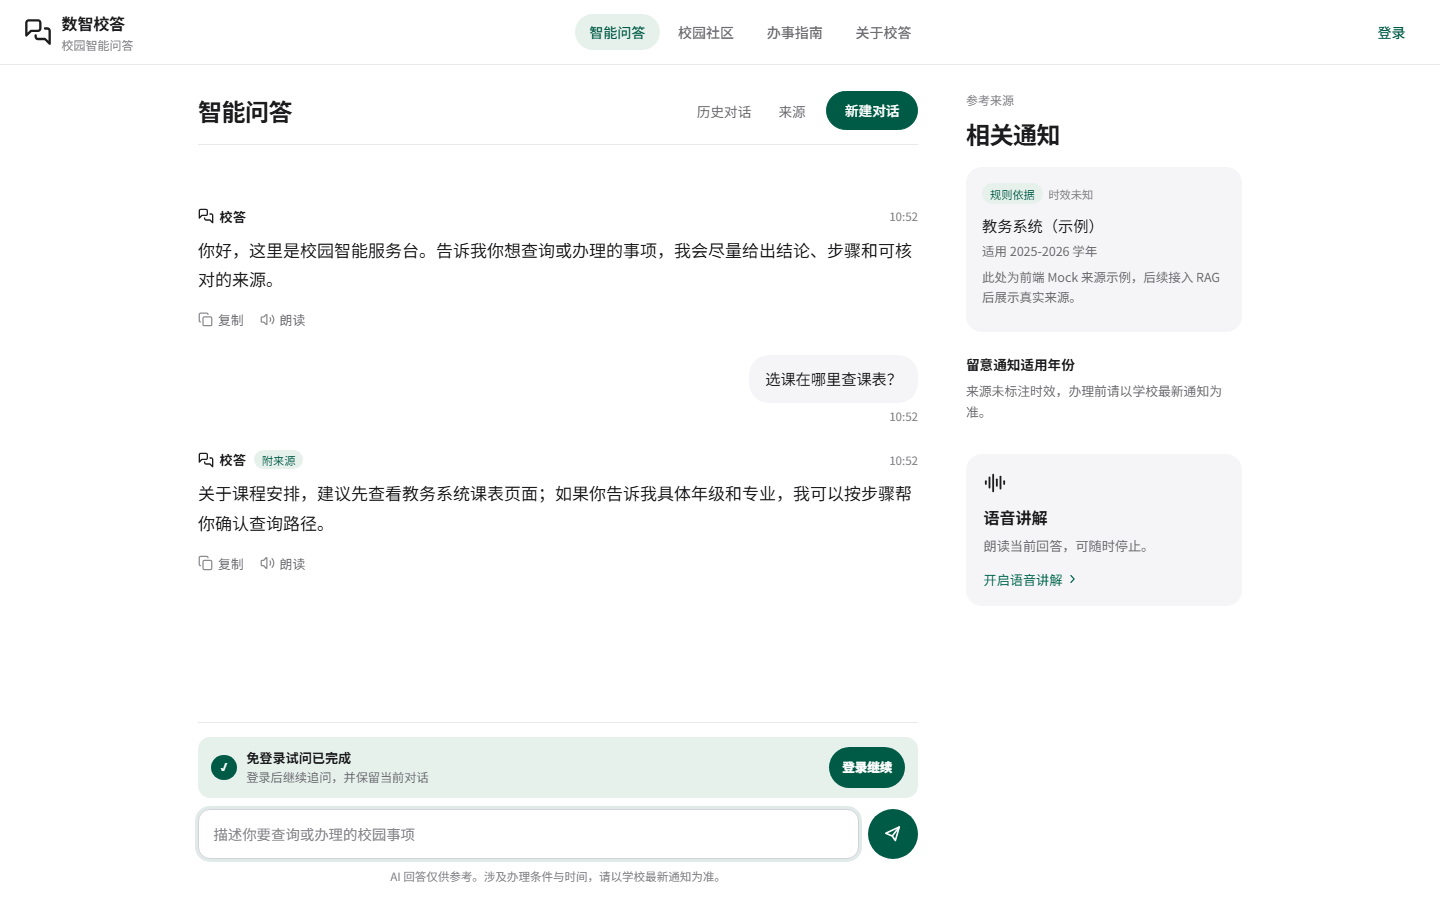
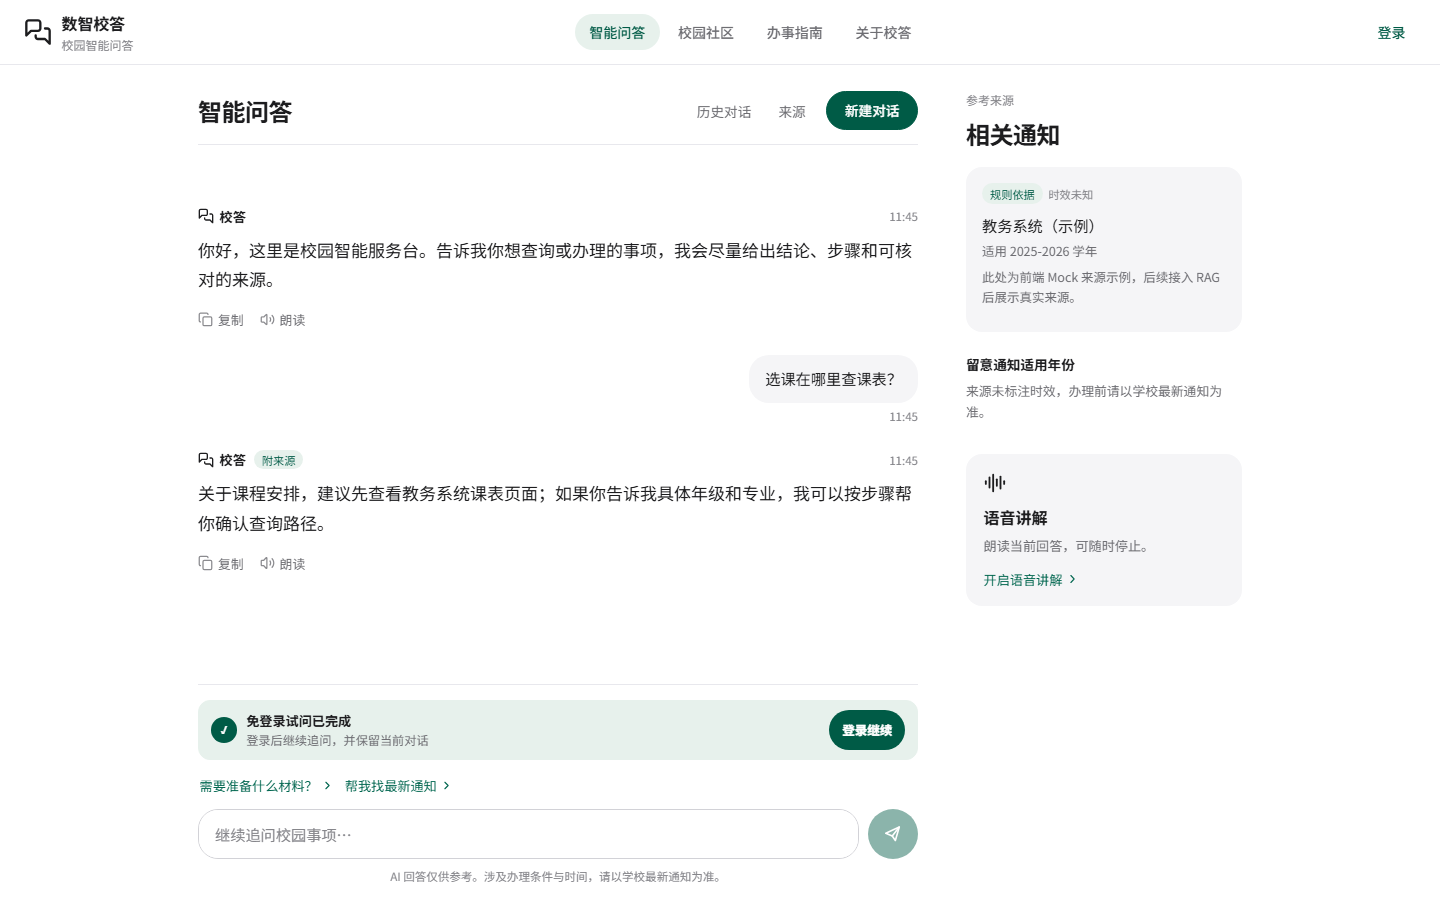
v2(2.4): harden the composer input and add follow-up suggestions
Switch the composer to an auto-growing textarea that ignores Enter during IME composition (A04), sends on Enter, keeps Shift+Enter for newlines, blocks blank and rapid duplicate submissions, and disables the send button when empty. Suggested follow-up questions are derived from the latest answer, only prefill the draft and focus the input - never auto-send. Drafts typed on /chat/new persist under a dedicated key and restore after refresh (conversation drafts already did). chat:layout now covers 10 checks including IME, Shift+Enter, blank submit and draft restore.

Changed region(s): [[0.125, 0.7778, 0.6562, 0.9644]]

diff --git a/src/views/AgentChat.vue b/src/views/AgentChat.vue
@@ -77,6 +77,19 @@
             </button>
           </div>
 
+          <div v-if="followUpSuggestions.length > 0" class="composer-suggestions">
+            <button
+              v-for="suggestion in followUpSuggestions"
+              :key="suggestion"
+              type="button"
+              class="composer-suggestion"
+              @click="applySuggestion(suggestion)"
+            >
+              {{ suggestion }}
+              <img src="/icons/chevron-right.svg" alt="" aria-hidden="true" />
+            </button>
+          </div>
+
           <InputBox
             ref="inputBoxRef"
             v-model="draftText"
@@ -279,6 +292,7 @@ const pendingDraftRestored = ref(false)
 const pendingDraftVisible = ref(false)
 const resumeAfterLoginRequested = ref(false)
 const GUEST_TRIAL_STORAGE_KEY = 'ai-campus-agent.guest-trial.used.v1'
+const NEW_CHAT_DRAFT_KEY = 'ai-campus-agent.chat-new-draft.v1'
 const guestTrialUsed = ref(false)
 
 const getLocalStorage = () => {
@@ -286,6 +300,23 @@ const getLocalStorage = () => {
     return typeof window !== 'undefined' ? window.localStorage : null
   } catch {
     return null
+  }
+}
+
+// /chat/new 还没有历史会话时，草稿先写这个键，刷新后仍能恢复。
+const readNewChatDraft = () => {
+  try {
+    return getLocalStorage()?.getItem(NEW_CHAT_DRAFT_KEY) || ''
+  } catch {
+    return ''
+  }
+}
+
+const clearNewChatDraft = () => {
+  try {
+    getLocalStorage()?.removeItem(NEW_CHAT_DRAFT_KEY)
+  } catch {
+    // 无痕或禁用存储时忽略。
   }
 }
 
@@ -407,6 +438,7 @@ const startNewConversation = () => {
   conversationNotice.value = ''
   historyOpen.value = false
   draftText.value = ''
+  clearNewChatDraft()
   store.resetSession()
   void router.push('/chat/new')
 }
@@ -479,6 +511,7 @@ const handleSend = async (text: string) => {
 
   ensureDraftForRun()
   const result = await store.sendMessage(text, runOptions())
+  if (result.ok) clearNewChatDraft()
   if (!authStore.loggedIn && result.ok) {
     persistGuestTrialUsed()
     syncRouteAfterSend()
@@ -520,6 +553,7 @@ const sendPendingDraft = async () => {
   consumeQuestionIntent()
   const result = await store.sendMessage(draft, runOptions())
   if (result.ok) {
+    clearNewChatDraft()
     clearPendingDraft()
     syncRouteAfterSend()
     return
@@ -569,9 +603,20 @@ watch(
 
 // 输入中的草稿写入当前会话，切走或刷新后仍能恢复。
 watch(draftText, (value) => {
-  if (!conversations.active) return
-  if (conversations.active.draft === value) return
-  conversations.setDraft(value)
+  if (conversations.active && conversations.active.draft !== value) {
+    conversations.setDraft(value)
+  }
+
+  // /chat/new 还没有历史会话时单独落一个草稿键，刷新后仍能恢复。
+  try {
+    const storage = getLocalStorage()
+    if (route.name === 'chat-new') {
+      if (value.trim()) storage?.setItem(NEW_CHAT_DRAFT_KEY, value)
+      else storage?.removeItem(NEW_CHAT_DRAFT_KEY)
+    }
+  } catch {
+    // 无痕或禁用存储时忽略。
+  }
 })
 
 // 校徽是否加载失败。
@@ -624,6 +669,27 @@ const activeAnswerText = computed(() => {
 })
 
 const narrating = ref(false)
+
+// 2.4 推荐问题：根据上一条回答里的关键词给两个可预填的问题，只预填不发送。
+const followUpSuggestions = computed(() => {
+  if (store.loading) return []
+  const lastAnswer = [...visibleMessages.value]
+    .reverse()
+    .find((message) => message.role === 'assistant' && message.content.trim())
+  if (!lastAnswer) return []
+
+  const content = lastAnswer.content
+  const suggestions: string[] = []
+  if (/材料|证明|证件|盖章/.test(content)) suggestions.push('需要准备什么材料？')
+  if (/通知|时间|截止|年份|有效期/.test(content)) suggestions.push('帮我找最新通知')
+  if (suggestions.length === 0) suggestions.push('需要准备什么材料？', '帮我找最新通知')
+  return suggestions.slice(0, 2)
+})
+
+const applySuggestion = (suggestion: string) => {
+  draftText.value = suggestion
+  void nextTick(() => inputBoxRef.value?.focus())
+}
 
 watch(
   () => store.narrationTick,
@@ -840,7 +906,8 @@ onMounted(() => {
     void restoreConversation(routeConversationId)
   } else if (route.name === 'chat-new') {
     activeConversationId.value = conversations.createDraft().conversationId
-    // 从首页“开始提问”进入时聚焦输入框；只聚焦，不自动发送，也不进历史。
+    // /chat/new 刷新后恢复未发送草稿，再聚焦输入框；只恢复，不自动发送。
+    if (!draftText.value) draftText.value = readNewChatDraft()
     void nextTick(() => inputBoxRef.value?.focus())
   }
 })
@@ -1541,6 +1608,35 @@ onMounted(() => {
   background: var(--white);
   font-size: 0.78rem;
   cursor: pointer;
+}
+
+.composer-suggestions {
+  display: flex;
+  flex-wrap: wrap;
+  gap: 0.5rem;
+  margin-bottom: 0.55rem;
+}
+
+.composer-suggestion {
+  display: inline-flex;
+  align-items: center;
+  gap: 0.2rem;
+  border: 0;
+  padding: 0.3rem 0.1rem;
+  color: var(--link);
+  background: transparent;
+  font-size: 0.82rem;
+  cursor: pointer;
+}
+
+.composer-suggestion:hover {
+  color: var(--brand-hover);
+  text-decoration: underline;
+}
+
+.composer-suggestion img {
+  width: 0.8rem;
+  height: 0.8rem;
 }
 
 .composer-note {

diff --git a/src/components/InputBox.vue b/src/components/InputBox.vue
@@ -4,14 +4,19 @@
     <el-input
       ref="inputRef"
       v-model="text"
+      class="composer-input"
+      type="textarea"
+      :autosize="{ minRows: 1, maxRows: 5 }"
       :disabled="loading"
-      placeholder="描述你要查询或办理的校园事项"
-      @keyup.enter="send"
+      placeholder="继续追问校园事项…"
+      @compositionstart="composing = true"
+      @compositionend="composing = false"
+      @keydown.enter="handleEnter"
     />
     <el-button
       class="send-btn"
       :loading="loading"
-      :disabled="loading"
+      :disabled="loading || !text.trim()"
       :aria-label="loading ? '正在发送' : '发送消息'"
       :title="loading ? '正在发送' : '发送消息'"
       @click="send"
@@ -40,8 +45,12 @@ const emit = defineEmits<{
 // 用本地 ref 保存输入框内容，发送成功后立即清空；同时与父组件的草稿双向同步。
 const text = ref(props.modelValue ?? '')
 const inputRef = ref<{ focus: () => void } | null>(null)
+// 中文输入法组合期按 Enter 只确认候选词，不发送消息。
+const composing = ref(false)
+// 防止 loading 状态尚未更新时的连续点击造成重复提交。
+let lastSent = { content: '', at: 0 }
 
-// 首页“开始提问”进入 /chat/new 时由父组件调用，只聚焦不发送。
+// 首页“开始提问”或推荐问题由父组件调用，只聚焦不发送。
 defineExpose({
   focus: () => inputRef.value?.focus(),
 })
@@ -57,12 +66,22 @@ watch(text, (value) => {
   emit('update:modelValue', value)
 })
 
-// 发送前做两层保护：
-// 1. 去掉首尾空白，避免空消息进入会话
-// 2. loading 时禁止重复发送，避免并发请求打乱消息顺序
+// A04：IME 组合期与输入法确认键不触发发送；Shift+Enter 保留换行；空值不发送。
+const handleEnter = (event: KeyboardEvent | Event) => {
+  const keyboardEvent = event as KeyboardEvent
+  if (composing.value || keyboardEvent.isComposing) return
+  if (keyboardEvent.shiftKey) return
+  keyboardEvent.preventDefault()
+  send()
+}
+
 const send = () => {
   const content = text.value.trim()
   if (!content || props.loading) return
+
+  const now = Date.now()
+  if (content === lastSent.content && now - lastSent.at < 800) return
+  lastSent = { content, at: now }
 
   // 发送逻辑交给父组件，这里只负责把用户输入抛出去。
   emit('send', content)
@@ -70,33 +89,41 @@ const send = () => {
 }
 </script>
 
-
 <style scoped>
 .input-box {
   width: 100%;
   display: grid;
   grid-template-columns: minmax(0, 1fr) 3.15rem;
   gap: 0.55rem;
-  align-items: stretch;
+  align-items: end;
 }
 
-:deep(.el-input__wrapper) {
-  min-height: 3.15rem;
-  border: 1px solid var(--line-strong);
-  border-radius: var(--radius-sm);
-  padding-inline: 0.9rem;
+:deep(.el-textarea__inner) {
+  min-height: 3.15rem !important;
+  border: 1px solid var(--border);
+  border-radius: 20px;
+  padding: 0.82rem 1rem;
+  color: var(--text);
   background: var(--white);
   box-shadow: none;
+  font-family: var(--font-sans);
+  font-size: 0.95rem;
+  line-height: 1.55;
+  resize: none;
+  scrollbar-width: none;
 }
 
-:deep(.el-input__inner) {
-  min-width: 0;
-  color: var(--ink);
-  font-size: 0.9rem;
+:deep(.el-textarea__inner::-webkit-scrollbar) {
+  display: none;
 }
 
-:deep(.el-input__inner::placeholder) {
+:deep(.el-textarea__inner::placeholder) {
   color: var(--faint);
+}
+
+:deep(.el-textarea__inner:focus) {
+  border-color: var(--brand);
+  box-shadow: 0 0 0 3px rgba(0, 91, 70, 0.12) !important;
 }
 
 .send-btn {
@@ -115,6 +142,11 @@ const send = () => {
   color: var(--white);
   background: var(--signal-dark);
   box-shadow: none;
+}
+
+.send-btn:disabled {
+  opacity: 0.45;
+  background: var(--brand);
 }
 
 .send-btn svg {
